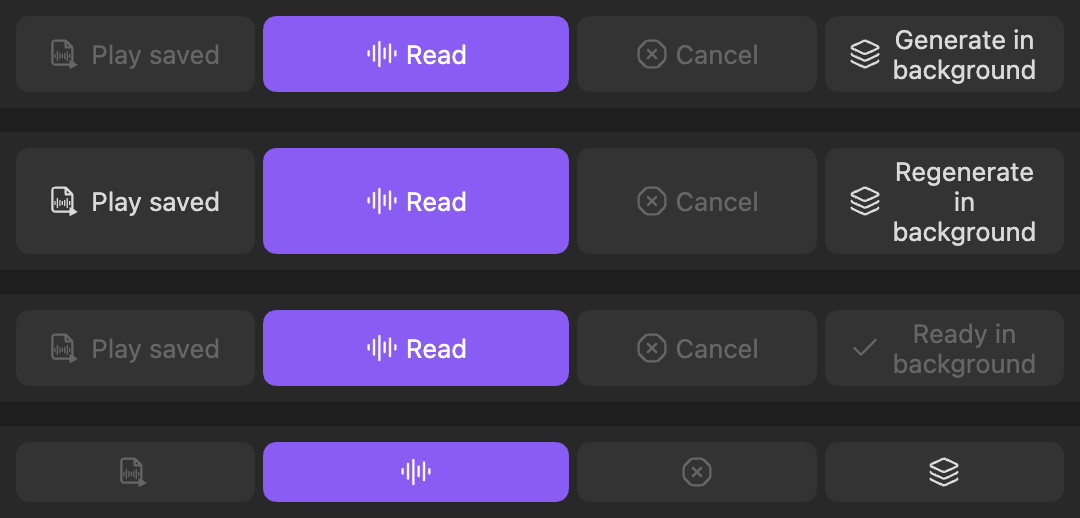
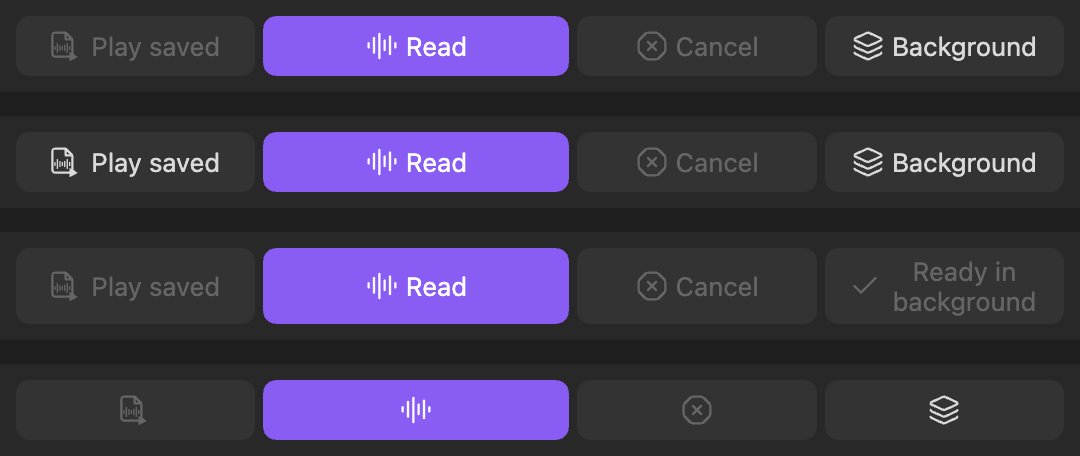
Update docs for 1.1.1
The background button is labelled just Background (the tooltip says whether it
generates or regenerates), the title is read with the first part, Read and
Background work with the note's tab closed, profile pages lose the Profile
heading, and the fixed limitations are gone. Retakes panel-idle,
panel-buttons-states and settings-profile-page.

Claude-Session: https://claude.ai/code/session_01Ph363XqyxBh5vLUTSUqcDK

diff --git a/Note Narrator/Using Note Narrator/Background Generation.md b/Note Narrator/Using Note Narrator/Background Generation.md
@@ -7,8 +7,8 @@ tags:
   - background
 publish: true
 permalink: note-narrator/using/background-generation
-plugin-version: 1.1.0
-updated: 2026-10-05
+plugin-version: 1.1.1
+updated: 2026-10-06
 ---
 
 # Background Generation
@@ -18,10 +18,10 @@ If you want a note's audio ready for later without listening to it now, generate
 ## Generate a note in the background
 
 1. Open the note.
-2. Click **Generate in background** in the panel, or run the **Generate note audio in background** command.
+2. Click **Background** in the panel, or run the **Generate note audio in background** command.
 3. The note joins the panel's **background jobs** list. Nothing stops or starts playing.
 
-It always generates the whole note, even if you have text selected.
+It always generates the whole note, even if you have text selected. If you close the note's tab, the panel's button still works: it generates the note as saved in your vault.
 
 ## Move a read to the background
 
@@ -43,16 +43,16 @@ Click a job to play it from the start. Pressing **Read** on a note that has a jo
 
 ## What the button says
 
-The panel's background button follows the note you are viewing:
+The panel's background button follows the note you are viewing. Hover over it (or long-press on mobile) to see exactly what it will do:
 
-| Button | When |
-| --- | --- |
-| **Generate in background** | The note has no job and no up-to-date saved audio. Starts a new job |
-| **Regenerate in background** | The note's saved audio is up to date. Generates it again on purpose, like **Read** does |
-| **Move to background** | The note is being read and still has parts to generate |
-| **Generate in background** (disabled) | The note is already queued or generating, or is playing from its saved audio |
-| **Move to background** (disabled) | The note's read has finished generating, so there is nothing to move |
-| **Ready in background** (disabled) | The note finished generating in the background. Play it from its card, or clear it from the list to generate it again |
+| Button | Tooltip starts with | When |
+| --- | --- | --- |
+| **Background** | Generate in background | The note has no job and no up-to-date saved audio. Starts a new job |
+| **Background** | Regenerate in background | The note's saved audio is up to date. Generates it again on purpose, like **Read** does |
+| **Move to background** | | The note is being read and still has parts to generate |
+| **Background** (disabled) | | The note is already queued or generating, or is playing from its saved audio |
+| **Move to background** (disabled) | | The note's read has finished generating, so there is nothing to move |
+| **Ready in background** (disabled) | | The note finished generating in the background. Play it from its card, or clear it from the list to generate it again |
 
 The command makes the same decision and shows a notice when there is nothing to do.
 
@@ -62,6 +62,7 @@ The command makes the same decision and shows a notice when there is nothing to 
 ## When files are deleted
 
 - Deleting a note, or the audio file its finished job saved, removes its job from the list, so the note can be generated again.
+- Deleting a note while it is being read lets the read finish playing, but its audio is not saved and it is never moved to the background.
 - **Clear Note Narrator files** also clears a finished job from the list (the confirmation says so). A job that is still queued or generating is kept: its new audio is saved and linked when it finishes.
 
 ## Starting another note while one is still generating

diff --git a/Note Narrator/Reference/Known Limitations.md b/Note Narrator/Reference/Known Limitations.md
@@ -7,8 +7,8 @@ tags:
   - limitations
 publish: true
 permalink: note-narrator/reference/known-limitations
-plugin-version: 1.1.0
-updated: 2026-10-05
+plugin-version: 1.1.1
+updated: 2026-10-06
 ---
 
 # Known Limitations
@@ -31,19 +31,14 @@ Things that do not work the way you might expect yet. Many have a planned fix on
 - **Multi-part files are concatenated bytes.** Chunks are joined without re-muxing the MP3 stream. This works with ElevenLabs output but is not strictly spec-correct MP3 concatenation.
 - **Part navigation can fall back.** During Play saved, if chunk-affecting settings changed since the audio was made, or the byte lengths do not add up, the file plays as a single non-navigable piece even though the note still says "up to date". Regenerate to fix it.
 - **Clear has no undo** for the properties. The file goes to trash per your vault setting.
-- **Cancel can still save.** If you cancel (or the plugin unloads) while the last part is still generating, that part can finish and the audio is saved and linked anyway.
 
 ## Background generation
 
-- **Out-of-date jobs are not flagged.** If you edit a note (or change its narrator) after its background job started, the job's card does not say so, and clicking it plays the old text. Pressing **Read** or **Generate in background** replaces it with a fresh job. **Move to background** on a read of an edited note moves the old read as it is.
-- **Deleting a note while it is being read** can leave a background card and an audio file behind. Clear the card from the list and delete the file by hand.
-- **Auto-generate on open** does not check the background list, so it can generate a note that is already generating in the background, spending credits twice.
-- **Read and Generate in background need the note open.** If you close the note's tab, the panel still shows it with both buttons enabled, but clicking them asks you to open a note. Open the note again first.
+- **Out-of-date jobs are not flagged.** If you edit a note (or change its narrator) after its background job started, the job's card does not say so, and clicking it plays the old text. Pressing **Read** or the **Background** button replaces it with a fresh job. **Move to background** on a read of an edited note moves the old read as it is.
 
 ## Playback and highlighting
 
 - No scrubbing to an arbitrary time, only relative rewind and skip.
-- **Quick start with the title on.** With **Read note title** and **Quick start** on, the first part can be just the title, followed by a pause while the next, full-size part generates.
 - Chunk and section highlight positions are proportional estimates and can be a word or two off at a boundary.
 - Highlighting needs Editing view. It cannot draw in Reading view.
 - Neither highlighting nor scroll-to-current applies to selection reads.

diff --git a/Note Narrator/Roadmap/Roadmap.md b/Note Narrator/Roadmap/Roadmap.md
@@ -6,8 +6,8 @@ tags:
   - roadmap
 publish: true
 permalink: note-narrator/roadmap
-plugin-version: 1.1.0
-updated: 2026-10-05
+plugin-version: 1.1.1
+updated: 2026-10-06
 ---
 
 # Roadmap
@@ -17,6 +17,7 @@ updated: 2026-10-05
 
 ## Recently shipped
 
+- **1.1.1: fixes.** The background button is now labelled just **Background** (hover for whether it generates or regenerates). The note title is read together with the start of the note instead of as a tiny first part followed by a pause. Read and **Background** work after you close the note's tab. Cancelling a read (or disabling the plugin) no longer saves its audio, deleting a note while it is being read no longer leaves an audio file or a background card behind, and **Auto-generate on open** no longer generates a note that is already being read or generated. Unit tests now run on every build.
 - **1.1.0: generate in background.** Generate a note's audio in the background without starting a read first, from the panel's **Generate in background** button or the new **Generate note audio in background** command. The button follows the note: **Move to background** while it is reading, **Regenerate in background** when its saved audio is up to date, and **Ready in background** once its job has finished. Finished jobs can be cleared from the list, and deleting a note or its saved audio removes its job. Also fixed: pausing while the current part is still generating now stays paused, and audio for a note edited while it was generating no longer shows as up to date. See [[Background Generation]]. Also in 1.1.0: when the note title exactly matches its first heading, the title is no longer read twice (see **Skip title when it repeats the first heading** on [[General Settings]]).
 - **Note Narrator is in Obsidian's community plugin directory.** Install it from **Settings → Community plugins → Browse** instead of BRAT. See [[Installation]].
 - **1.0.0.** No user-facing changes over 0.17.1. It hardens the release process: the built `main.js` and `styles.css` now carry a GitHub build-provenance attestation, so anyone can verify they came from this repository's own source; a CSS rule was adjusted to drop a browser-support warning; and a type-resolution dependency (`moment`) is now declared directly instead of arriving indirectly through Obsidian's own package.

diff --git a/Note Narrator/Using Note Narrator/The Panel.md b/Note Narrator/Using Note Narrator/The Panel.md
@@ -7,8 +7,8 @@ tags:
   - panel
 publish: true
 permalink: note-narrator/using/the-panel
-plugin-version: 1.1.0
-updated: 2026-10-05
+plugin-version: 1.1.1
+updated: 2026-10-06
 ---
 
 # The Panel
@@ -39,7 +39,7 @@ The panel lives in the right sidebar. Open it from the ribbon icon, the note too
 | **Play saved** | Plays the note's existing saved audio with no regeneration. |
 | **Read** | Generates and plays the note. Relabels itself to **Regenerate** when the note changed since the audio was made, and to **Regenerate with new narrator** when the selected profile's voice settings differ from the saved audio's. While busy it reads "Reading". |
 | **Cancel** | Stops an in-progress generation. |
-| **Generate in background** | Generates the note in the background without playing it. Reads **Regenerate in background** when the saved audio is up to date, **Move to background** while the note is reading (stops playback, keeps generating), and **Ready in background** once its background job has finished. Disabled when there is nothing to do. See [[Background Generation#What the button says]]. |
+| **Background** | Generates the note in the background without playing it. When the saved audio is up to date it regenerates it instead (its tooltip says **Regenerate in background**). Reads **Move to background** while the note is reading (stops playback, keeps generating), and **Ready in background** once its background job has finished. Disabled when there is nothing to do. See [[Background Generation#What the button says]]. |
 
 The **Compact buttons** setting turns these into icon-only buttons with tooltips. Narrow panels do this automatically.
 

diff --git a/Note Narrator/Settings/Providers Settings.md b/Note Narrator/Settings/Providers Settings.md
@@ -8,8 +8,8 @@ tags:
   - elevenlabs
 publish: true
 permalink: note-narrator/settings/providers
-plugin-version: 1.1.0
-updated: 2026-10-05
+plugin-version: 1.1.1
+updated: 2026-10-06
 ---
 
 # Providers Settings
@@ -55,7 +55,7 @@ Rate limits belong to an account, not a voice, so parallel generation is set **p
 | --- | --- | --- | --- |
 | **Generate chunks in parallel** | Enabled | never | Generate more than one chunk ahead of playback at once |
 | **Max parallel chunk generation** | 2 | Parallel is off | Chunks generating at once (minimum 2). Recommended 2 to 5. Has a reset button |
-| **Max parallel background chunk generation** | 1 | never | The same limit for notes generating in the background, whether you used **Move to background** or **Generate in background**. Kept low so it does not compete with a read you are listening to. Recommended 1 to 3 |
+| **Max parallel background chunk generation** | 1 | never | The same limit for notes generating in the background, whether you used **Move to background** or the **Background** button. Kept low so it does not compete with a read you are listening to. Recommended 1 to 3 |
 
 > [!warning] Rate limits
 > If the service answers with a rate limit (HTTP 429), Note Narrator retries with backoff and falls back to one chunk at a time for the rest of that read. See [[Long Notes and Chunking]].

diff --git a/Note Narrator/Using Note Narrator/Reading a Note.md b/Note Narrator/Using Note Narrator/Reading a Note.md
@@ -6,8 +6,8 @@ tags:
   - usage
 publish: true
 permalink: note-narrator/using/reading-a-note
-plugin-version: 1.1.0
-updated: 2026-10-05
+plugin-version: 1.1.1
+updated: 2026-10-06
 ---
 
 # Reading a Note
@@ -35,6 +35,8 @@ In order, the spoken text can include:
 1. **The note title**, if **Read note title** is on (default on), unless it exactly matches the note's first heading and **Skip title when it repeats the first heading** is on (default on), in which case the title is left out and only the heading is heard, once, as part of the body.
 2. **The properties**, if **Read note properties** is on (default off). This says "Properties", then each key and value, then "Content".
 3. **The note body**, minus anything you chose to skip.
+
+The title and properties are spoken as part of the first part of the note, never as a part on their own, so playback flows straight into the note even when it starts with a heading.
 
 > [!note] Selections
 > With **Read selection instead of whole note** on (default on), an active text selection is read on its own, without the title or properties. Highlighting and scroll-to-current do not apply to selection reads.

diff --git a/Note Narrator/Settings/Profiles Settings.md b/Note Narrator/Settings/Profiles Settings.md
@@ -7,8 +7,8 @@ tags:
   - profiles
 publish: true
 permalink: note-narrator/settings/profiles
-plugin-version: 1.1.0
-updated: 2026-10-05
+plugin-version: 1.1.1
+updated: 2026-10-06
 ---
 
 # Profiles Settings
@@ -38,7 +38,9 @@ The **Default narrator** dropdown at the top of the tab picks the profile used f
 
 ![[settings-profile-page.png]]
 
-### Profile
+### Name and provider
+
+The settings at the top of the page, without a heading:
 
 | Setting | What it does |
 | --- | --- |
